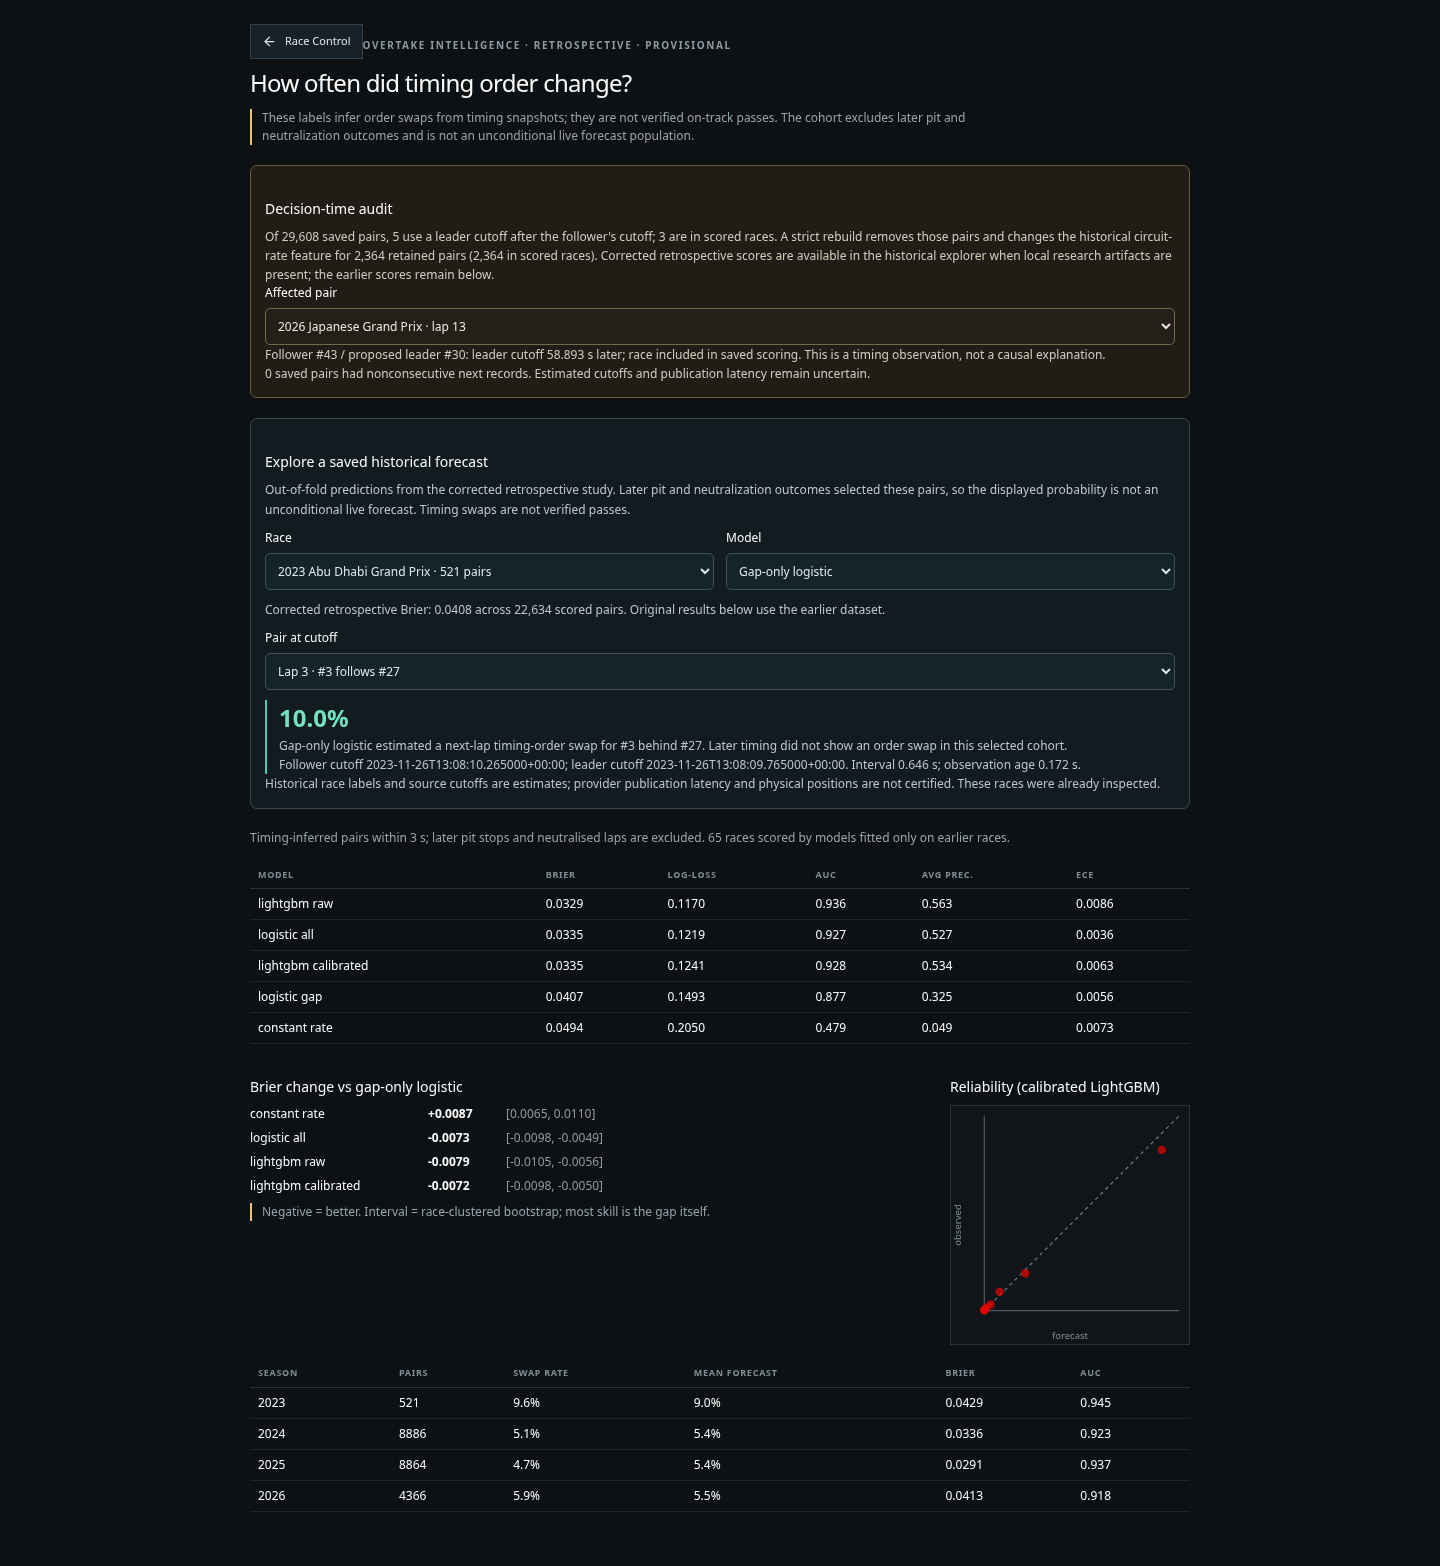
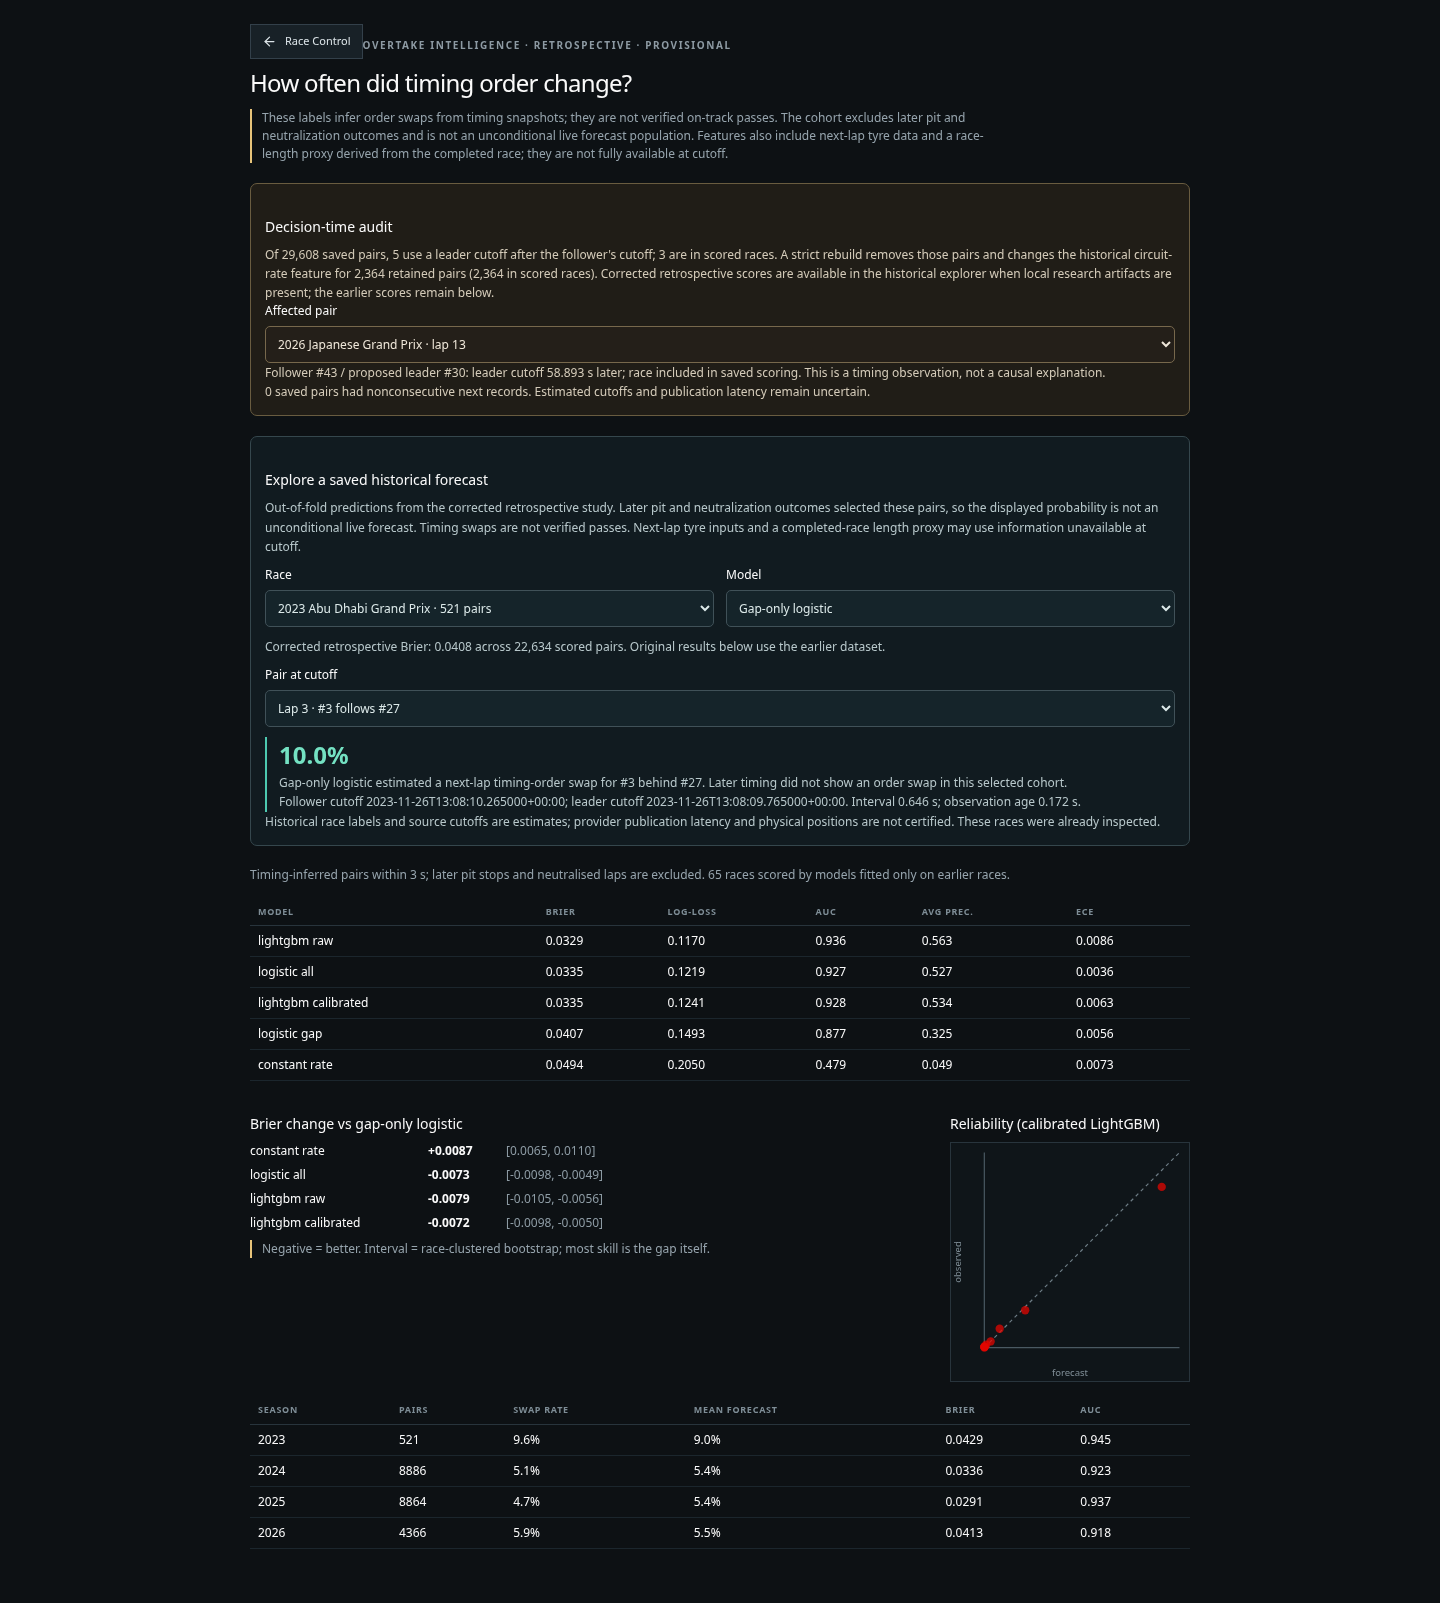
Disclose inherited future-dependent pace and overtake features

diff --git a/apps/web/src/components/OvertakeLab.tsx b/apps/web/src/components/OvertakeLab.tsx
@@ -71,7 +71,7 @@ export function OvertakeLab({ onBack }: { onBack: () => void }) {
       <button className="prediction-back" type="button" onClick={onBack}><ArrowLeft size={15} /> Race Control</button>
       <span className="eyebrow">OVERTAKE INTELLIGENCE · RETROSPECTIVE · PROVISIONAL</span>
       <h2>How often did timing order change?</h2>
-      <p className="ot-note">These labels infer order swaps from timing snapshots; they are not verified on-track passes. The cohort excludes later pit and neutralization outcomes and is not an unconditional live forecast population.</p>
+      <p className="ot-note">These labels infer order swaps from timing snapshots; they are not verified on-track passes. The cohort excludes later pit and neutralization outcomes and is not an unconditional live forecast population. Features also include next-lap tyre data and a race-length proxy derived from the completed race; they are not fully available at cutoff.</p>
       {auditError && <p role="status" className="ot-note">Cutoff audit is unavailable or failed its integrity check.</p>}
       {audit && <section aria-label="Overtake cutoff audit" className="ot-audit">
         <h3>Decision-time audit</h3>

diff --git a/apps/web/src/components/OvertakeHistory.tsx b/apps/web/src/components/OvertakeHistory.tsx
@@ -38,7 +38,7 @@ export function OvertakeHistory() {
   const score = catalog?.corrected_summary.table.find((item) => item.model === model)
   return <section className="ot-history" aria-label="Historical timing forecast explorer">
     <h3>Explore a saved historical forecast</h3>
-    <p>Out-of-fold predictions from the corrected retrospective study. Later pit and neutralization outcomes selected these pairs, so the displayed probability is not an unconditional live forecast. Timing swaps are not verified passes.</p>
+    <p>Out-of-fold predictions from the corrected retrospective study. Later pit and neutralization outcomes selected these pairs, so the displayed probability is not an unconditional live forecast. Timing swaps are not verified passes. Next-lap tyre inputs and a completed-race length proxy may use information unavailable at cutoff.</p>
     {missing && <p role="status">Corrected local study artifacts are unavailable; see the reproduction instructions to build them.</p>}
     {!catalog && !missing && <p role="status">Loading saved historical forecasts…</p>}
     {catalog && <>

diff --git a/docs/research/OVERTAKE_CUTOFF_AUDIT.md b/docs/research/OVERTAKE_CUTOFF_AUDIT.md
@@ -55,3 +55,10 @@ OPENBLAS_NUM_THREADS=1 OMP_NUM_THREADS=4 PYTHONPATH=src .venv/bin/python scripts
 The local explorer validates dataset, source, prediction and summary hashes, joins cutoffs and displays saved model probabilities and later observed timing outcomes. It is not online inference. Source provider latency, unpublished positions and the selected population remain unresolved. Its default artifact locations are intentionally local; a clean checkout shows an unavailable message until the reproducible research inputs exist.
 
 Rendered saved-forecast explorer: [desktop](../images/overtake-history-desktop.png) and [mobile](../images/overtake-history-mobile.png). Captured from the local research artifacts, not a live feed.
+
+
+## Further source-feature audit — 2026-11-01
+
+The cutoff repair does **not** make all model inputs decision-time safe. In `pace.dataset.build_race_frame`, `laps_remaining` uses the maximum lap number found after the race, which can reveal an eventual shortened distance rather than a pre-race scheduled distance. Overtake uses that field directly, and also uses `tyre_age_next` and `compound_next`, derived from the following lap's stint. The outcome-selected no-pit cohort does not establish that these values were available to an unconditional forecast at the cutoff. The saved original and corrected experiments must remain retrospective and provisional; the 22 fitted models and reported scores are not evidence for as-of deployment. The size of any score change after removing these features is not yet measured. No old artifacts or scores were overwritten.
+
+The broader pace frame's `laps_in_stint` and `stint_best_delta` also derive from the next-lap stint; its clean-lap and regime calculations use subsequent pit-out status and a full-race median lap time. The existing Race Pace “strict” result therefore has unresolved decision-time provenance as well. A new prospective cohort and causally reconstructed features are required before making strict as-of or live-inference claims. Provider publication timing remains another unresolved limitation.

diff --git a/docs/TEST_EVIDENCE.md b/docs/TEST_EVIDENCE.md
@@ -541,3 +541,8 @@ Overtake cutoff audit verification: the initial full local Python suite (before 
 Corrected overtake: source b9b2db0; 22 trusted local fold artifacts reloaded and 113,170 predictions matched exactly. Dataset, model and prediction hashes and reproduction commands: research/OVERTAKE_CUTOFF_AUDIT.md.
 
 Verification on the overtake review worktree with local data: `PYTHONPATH=src .venv/bin/pytest -q` **305 passed**; `.venv/bin/ruff check src/f1_racelab/ml/overtake src/f1_racelab/api.py tests/test_overtake.py` and `.venv/bin/mypy src/f1_racelab/ml/overtake src/f1_racelab/api.py` passed. `npm run lint`, `npm run test:unit` (**16 passed**) and `npm run build` passed; Vite reported pre-existing large chunks. A real-data Chromium test with the API on the worktree PYTHONPATH passed race, pair and model selections and a 390px overflow check. Desktop and mobile screenshots were visually inspected and linked in the audit. This browser test requires the local replay packs and corrected research artifacts; clean-checkout missing-data behavior is covered by the API test. An initial local browser invocation imported the owner's editable foundation checkout and failed; setting worktree PYTHONPATH fixed the test setup.
+
+
+### Pace-source availability finding — 2026-11-01
+
+Further review found `laps_remaining` derives from the completed race's maximum lap, and Overtake's tyre fields refer to lap L+1. Pace's `laps_in_stint` and `stint_best_delta` also use next-lap stint information; clean/regime construction uses subsequent pit-out status and a full-race median. Existing overtake and pace scores remain provisional and do not prove strict as-of availability. Affected score changes have not been quantified; raw reconstruction and new evaluation are needed. See research/OVERTAKE_CUTOFF_AUDIT.md.

diff --git a/docs/research/OVERTAKE_INTELLIGENCE.md b/docs/research/OVERTAKE_INTELLIGENCE.md
@@ -1,6 +1,6 @@
 # Overtake Intelligence: retrospective timing-order changes
 
-**Status: provisional.** A subsequent [cutoff and label audit](OVERTAKE_CUTOFF_AUDIT.md) found five pairs whose proposed leader's feature cutoff occurred after the follower's cutoff, three in previously scored races. Removing them changes the historical circuit-rate feature for 2,364 retained pairs. A corrected retrospective backtest has since been run; see the audit for its separate metrics and limitations. Later pit and neutralization outcomes select the cohort, and timing-inferred order changes are not verified on-track passes; this is not an unconditional live probability.
+**Status: provisional.** A subsequent [cutoff and label audit](OVERTAKE_CUTOFF_AUDIT.md) found five pairs whose proposed leader's feature cutoff occurred after the follower's cutoff, three in previously scored races. Removing them changes the historical circuit-rate feature for 2,364 retained pairs. A corrected retrospective backtest has since been run; see the audit for its separate metrics and limitations. Later pit and neutralization outcomes select the cohort, and timing-inferred order changes are not verified on-track passes; this is not an unconditional live probability. A further source audit found next-lap tyre features and a completed-race-length proxy among the inputs; neither is proven available at the cutoff.
 
 Status: evaluated on real data; read-only API `GET /api/v1/overtake/summary`; UI workspace "Overtakes" (model table, paired gains, reliability, per-season); not a live system.
 

diff --git a/docs/CHATGPT_HANDOFF.md b/docs/CHATGPT_HANDOFF.md
@@ -956,3 +956,8 @@ Base `5cdac66677e6abb513f84e3ede5f74dd74d00bb6`. Five of 29,608 saved timing-inf
 ### Overtake retrospective audit — 2026-11-01
 
 Overtake review branch: audit found 5 late leader cutoffs and 2,364 changed prior-rate rows. Corrected strict dataset has 29,603 pairs; 22 saved folds scored 22,634 pairs in 65 previously inspected races, raw LightGBM Brier 0.032841 and gap logistic 0.040755. 113,170 reloaded predictions matched. Historical UI reads locally stored forecasts, not live inference. Outcome selection and provider timing limit validity. Source, hashes, commands, metrics and limitations: research/OVERTAKE_CUTOFF_AUDIT.md. No model promotion or merge.
+
+
+### Pace-source availability finding — 2026-11-01
+
+Further review found `laps_remaining` derives from the completed race's maximum lap, and Overtake's tyre fields refer to lap L+1. Pace's `laps_in_stint` and `stint_best_delta` also use next-lap stint information; clean/regime construction uses subsequent pit-out status and a full-race median. Existing overtake and pace scores remain provisional and do not prove strict as-of availability. Affected score changes have not been quantified; raw reconstruction and new evaluation are needed. See research/OVERTAKE_CUTOFF_AUDIT.md.

diff --git a/README.md b/README.md
@@ -142,4 +142,4 @@ npm run test:e2e
 See [the three-session evidence](docs/REPLAY_GOLDEN_SESSIONS.md) for exact
 source/clock semantics, checks, screenshots and remaining limitations.
 
-The existing [Overtake study is provisional](docs/research/OVERTAKE_CUTOFF_AUDIT.md): labels infer timing-order changes, later outcomes select its cohort, and a cutoff audit identified affected input rows. A corrected retrospective backtest and local saved-forecast explorer are documented in the audit; the outcome-selected cohort and previously inspected races still limit interpretation.
+The existing [Overtake study is provisional](docs/research/OVERTAKE_CUTOFF_AUDIT.md): labels infer timing-order changes, later outcomes select its cohort, and a cutoff audit identified affected input rows. A corrected retrospective backtest and local saved-forecast explorer are documented in the audit; the outcome-selected cohort, next-lap tyre fields, completed-race-length proxy and previously inspected races still limit interpretation.

diff --git a/docs/EXPERIMENT_REGISTER.md b/docs/EXPERIMENT_REGISTER.md
@@ -503,3 +503,8 @@ Base `5cdac66677e6abb513f84e3ede5f74dd74d00bb6`. Five of 29,608 saved timing-inf
 ### Overtake retrospective audit — 2026-11-01
 
 2026-11-01 corrected Overtake retrospective: b9b2db0, 29,603 strict pairs, 22 folds, 65 scored races; raw LightGBM Brier 0.032841 vs gap logistic 0.040755. Outcome-selected previously inspected sample; not a new generalization claim. See research/OVERTAKE_CUTOFF_AUDIT.md.
+
+
+### Pace-source availability finding — 2026-11-01
+
+Further review found `laps_remaining` derives from the completed race's maximum lap, and Overtake's tyre fields refer to lap L+1. Pace's `laps_in_stint` and `stint_best_delta` also use next-lap stint information; clean/regime construction uses subsequent pit-out status and a full-race median. Existing overtake and pace scores remain provisional and do not prove strict as-of availability. Affected score changes have not been quantified; raw reconstruction and new evaluation are needed. See research/OVERTAKE_CUTOFF_AUDIT.md.

diff --git a/docs/DECISIONS.md b/docs/DECISIONS.md
@@ -381,3 +381,8 @@ Base `5cdac66677e6abb513f84e3ede5f74dd74d00bb6`. Five of 29,608 saved timing-inf
 ### Overtake retrospective audit — 2026-11-01
 
 Overtake corrected evaluation remains separate from the original and model promotion: source cutoffs were repaired but future-outcome cohort selection and publication latency remain unresolved. Serve saved parquet only; never load joblib in the API.
+
+
+### Pace-source availability finding — 2026-11-01
+
+Further review found `laps_remaining` derives from the completed race's maximum lap, and Overtake's tyre fields refer to lap L+1. Pace's `laps_in_stint` and `stint_best_delta` also use next-lap stint information; clean/regime construction uses subsequent pit-out status and a full-race median. Existing overtake and pace scores remain provisional and do not prove strict as-of availability. Affected score changes have not been quantified; raw reconstruction and new evaluation are needed. See research/OVERTAKE_CUTOFF_AUDIT.md.

diff --git a/docs/GLOSSARY_FOR_LEARNING.md b/docs/GLOSSARY_FOR_LEARNING.md
@@ -327,3 +327,8 @@ Base `5cdac66677e6abb513f84e3ede5f74dd74d00bb6`. Five of 29,608 saved timing-inf
 ### Overtake retrospective audit — 2026-11-01
 
 Timing-order swap: an order change inferred from timing records, not proof of an on-track overtake. A retrospective selected cohort may depend on future pit or neutralization events and cannot directly support unconditional live probability claims.
+
+
+### Pace-source availability finding — 2026-11-01
+
+Further review found `laps_remaining` derives from the completed race's maximum lap, and Overtake's tyre fields refer to lap L+1. Pace's `laps_in_stint` and `stint_best_delta` also use next-lap stint information; clean/regime construction uses subsequent pit-out status and a full-race median. Existing overtake and pace scores remain provisional and do not prove strict as-of availability. Affected score changes have not been quantified; raw reconstruction and new evaluation are needed. See research/OVERTAKE_CUTOFF_AUDIT.md.

diff --git a/docs/IMPLEMENTATION_ATLAS.md b/docs/IMPLEMENTATION_ATLAS.md
@@ -433,3 +433,8 @@ Base `5cdac66677e6abb513f84e3ede5f74dd74d00bb6`. Five of 29,608 saved timing-inf
 ### Overtake retrospective audit — 2026-11-01
 
 Overtake: dataset.py enforces time ordering; audit_overtake_cutoffs.py records impact; historical.py validates and joins local saved predictions and cutoffs; OvertakeHistory.tsx displays them. See research/OVERTAKE_CUTOFF_AUDIT.md.
+
+
+### Pace-source availability finding — 2026-11-01
+
+Further review found `laps_remaining` derives from the completed race's maximum lap, and Overtake's tyre fields refer to lap L+1. Pace's `laps_in_stint` and `stint_best_delta` also use next-lap stint information; clean/regime construction uses subsequent pit-out status and a full-race median. Existing overtake and pace scores remain provisional and do not prove strict as-of availability. Affected score changes have not been quantified; raw reconstruction and new evaluation are needed. See research/OVERTAKE_CUTOFF_AUDIT.md.

diff --git a/docs/AGENT_WORKLOG.md b/docs/AGENT_WORKLOG.md
@@ -1404,3 +1404,8 @@ Base `5cdac66677e6abb513f84e3ede5f74dd74d00bb6`. Five of 29,608 saved timing-inf
 ### Overtake retrospective audit — 2026-11-01
 
 Audited timing cutoffs; rebuilt and trained a corrected retrospective overtake study at b9b2db0. 22 folds reproduced 113,170 saved predictions exactly; outcome-dependent selection remains.
+
+
+### Pace-source availability finding — 2026-11-01
+
+Further review found `laps_remaining` derives from the completed race's maximum lap, and Overtake's tyre fields refer to lap L+1. Pace's `laps_in_stint` and `stint_best_delta` also use next-lap stint information; clean/regime construction uses subsequent pit-out status and a full-race median. Existing overtake and pace scores remain provisional and do not prove strict as-of availability. Affected score changes have not been quantified; raw reconstruction and new evaluation are needed. See research/OVERTAKE_CUTOFF_AUDIT.md.
